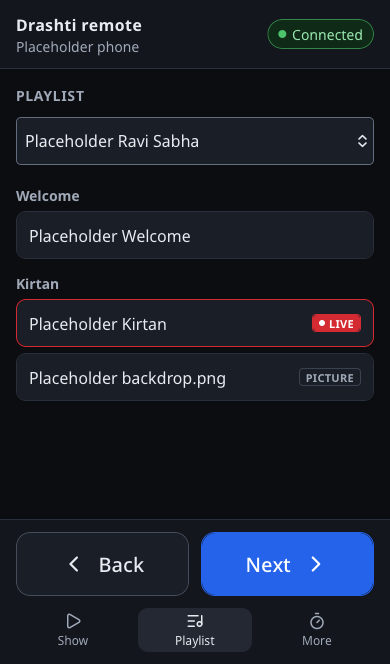
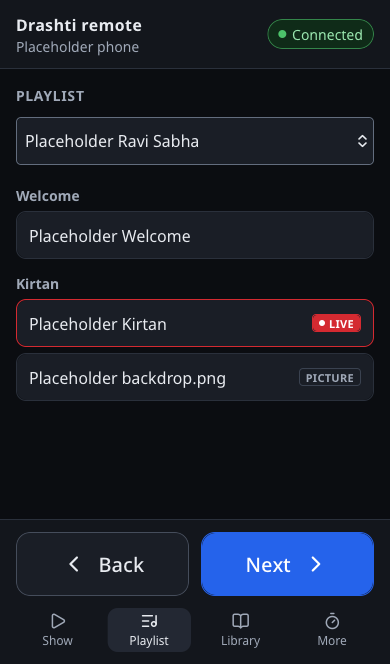
Screenshots: the presenter's remote, at phone and iPad sizes (CI's Mac)
From CI run 37856569219 on CI's Mac: on a phone the notes under the live
picture, the library and the library searched; on an iPad the library beside
the show and the remote held sideways for a presenter; and the remote's other
views again, now with the Library tab. The README links the new ones; the
presenter's guide already shows three of them.

diff --git a/README.md b/README.md
@@ -646,7 +646,7 @@ With placeholder content and generated media only, from `tests/e2e/screenshots.s
 - [The component gallery](docs/screenshots/component-gallery.png)
 - Converting: [the import report with files Drashti cannot play](docs/screenshots/convert-report.png), [the media list while converting](docs/screenshots/convert-media-list.png) and [after](docs/screenshots/convert-media-list-done.png)
 - The stream, with Chromium's fake camera (and FFmpeg on the same computer in YouTube's place): [the Stream panel on air and recording](docs/screenshots/stream-panel.png), [Stream settings](docs/screenshots/stream-settings.png), the Program [with the camera and the words](docs/screenshots/stream-program-camera.png) and [as the slides](docs/screenshots/stream-program-slides.png), and [Simple Mode on air](docs/screenshots/simple-mode-on-air.png)
-- The local network (pairing codes and QR codes covered): [the Phones panel offering a code](docs/screenshots/phones-panel.png), [the Announcements queue](docs/screenshots/announcements-queue.png), [an audience screen with a message and the ticker](docs/screenshots/output-ticker.png); on a phone [pairing](docs/screenshots/phone-pair.png), [the remote](docs/screenshots/phone-remote.png), [its playlist](docs/screenshots/phone-remote-playlist.png) and [sending an announcement](docs/screenshots/phone-announce.png); on a tablet [the remote](docs/screenshots/tablet-remote.png) and [the stage display](docs/screenshots/tablet-stage-display.png)
+- The local network (pairing codes and QR codes covered): [the Phones panel offering a code](docs/screenshots/phones-panel.png), [the Announcements queue](docs/screenshots/announcements-queue.png), [an audience screen with a message and the ticker](docs/screenshots/output-ticker.png); on a phone [pairing](docs/screenshots/phone-pair.png), [the remote](docs/screenshots/phone-remote.png), [its playlist](docs/screenshots/phone-remote-playlist.png), for a presenter (Session 18) [the notes under the live picture](docs/screenshots/phone-remote-notes.png), [the library](docs/screenshots/phone-remote-library.png) and [searched](docs/screenshots/phone-remote-search.png), and [sending an announcement](docs/screenshots/phone-announce.png); on a tablet [the remote](docs/screenshots/tablet-remote.png), [the library beside the show](docs/screenshots/tablet-remote-library.png), [held sideways, for a presenter](docs/screenshots/tablet-remote-sideways.png) and [the stage display](docs/screenshots/tablet-stage-display.png)
 - Looks, stage layouts, masks, key and fill, macros and MIDI (Session 11): [the right column with Looks, Macros and Masks](docs/screenshots/operator-looks-macros-masks.png), [Screens with the Looks](docs/screenshots/screens-looks.png), [the stage layout editor](docs/screenshots/stage-layout-editor.png), [the mask editor](docs/screenshots/mask-editor.png), [the macro editor](docs/screenshots/macro-editor.png), [the MIDI dialog](docs/screenshots/midi-dialog.png), [two elements selected together in the slide editor](docs/screenshots/slide-editor-together.png) and [the remote's More tab with Looks and macros](docs/screenshots/phone-remote-more.png); the outputs: [the hall with its own mask](docs/screenshots/output-hall-mask.png), [a stage screen with a layout of boxes](docs/screenshots/output-stage-layout.png), [the hall's words as a lower third, the message along the top](docs/screenshots/output-hall-lower-third.png), and a key and fill pair's [fill](docs/screenshots/output-fill.png) and [key](docs/screenshots/output-key.png)
 - The Shastra module, timers in the running order, the arti, Samvat and tithi, and the idle rotation (Session 12): [a passage found by its reference in the Shastra tab](docs/screenshots/shastra-tab.png), [the loaded texts](docs/screenshots/shastra-texts.png), [a passage on a hall screen in Sanskrit (Gujarati script), transliteration and Gujarati](docs/screenshots/output-shastra.png), [an item's timers](docs/screenshots/timer-cues.png), [the arti prompt counting down](docs/screenshots/arti-prompt.png), [an arti time](docs/screenshots/arti-dialog.png), [the arti prompt in Simple Mode at its time](docs/screenshots/simple-mode-arti.png), [the Calendar dialog](docs/screenshots/calendar-dialog.png), [a stage screen with the clock and the date, the Samvat box and the quote of the day](docs/screenshots/output-stage-samvat.png), [the idle rotation's settings](docs/screenshots/idle-dialog.png), and on a hall screen in the idle rotation [a picture (a generated one)](docs/screenshots/output-idle-picture.png) and [the quote of the day](docs/screenshots/output-idle-quote.png)
 
